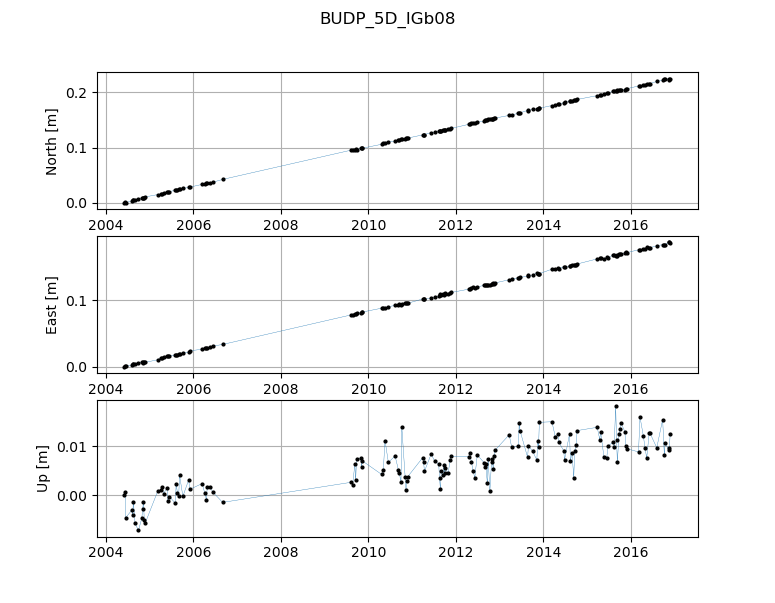
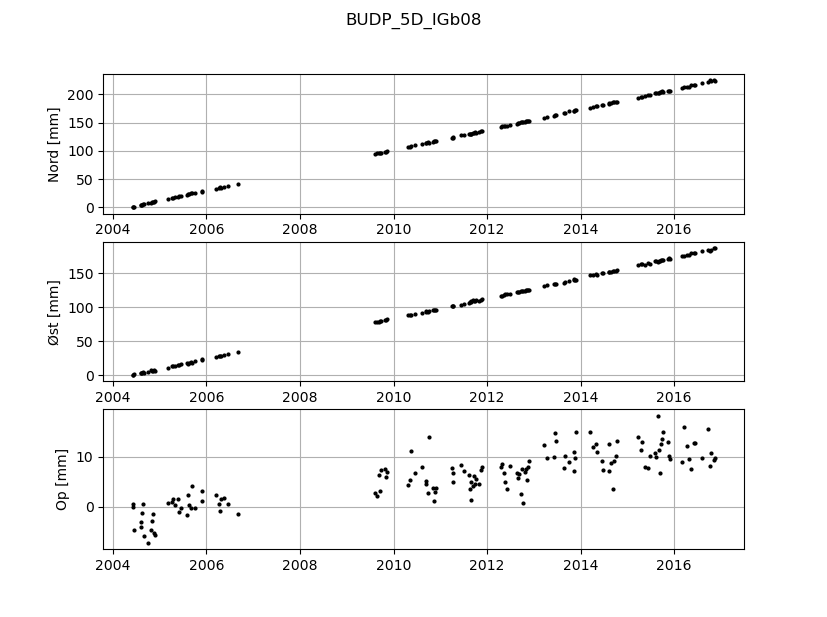
Refaktoriser og udvid plot_gnss
Giver nu mulighed for at plotte en simpel regressionslinje
med eller uden konfidensinterval.
Opdateret dokumentation med tilhørende figureksempler.

diff --git a/fire/cli/ts/gnss.py b/fire/cli/ts/gnss.py
@@ -3,7 +3,6 @@ from datetime import datetime
 
 import click
 import pandas as pd
-import matplotlib.pyplot as plt
 from rich.table import Table
 from rich.console import Console
 from rich import box
@@ -12,6 +11,14 @@ from sqlalchemy.exc import NoResultFound
 
 import fire.cli
 from fire.api.model import Tidsserie, HøjdeTidsserie, GNSSTidsserie, Punkt
+from fire.cli.ts._plot_gnss import (
+    plot_gnss_ts,
+    plot_gnss_analyse,
+    plot_data,
+    plot_fit,
+    plot_konfidensbånd,
+    GNSS_TS_PLOTTING_LABELS,
+)
 
 from . import ts
 
@@ -121,7 +128,7 @@ def gnss(objekt: str, parametre: str, fil: click.Path, **kwargs) -> None:
     Hvis "OBJEKT" er et punkt udskrives en oversigt over de tilgængelige
     tidsserier til dette punkt. Hvis 'OBJEKT' er en tidsserie udskrives
     tidsserien på skærmen. Hvilke parametre der udskrives kan specificeres
-    i en kommasepararet liste med ``--parameter``. Følgende parametre kan vælges::
+    i en kommasepareret liste med ``--parametre``. Følgende parametre kan vælges::
 
     \b
         t               Tidspunkt for koordinatobservation
@@ -170,7 +177,7 @@ def gnss(objekt: str, parametre: str, fil: click.Path, **kwargs) -> None:
 
     Vis tidsserie med brugerdefinerede parametre::
 
-        fire ts gnss RDIO_5D_IGb08 --paramatre decimalår,n,e,u,sx,sy,sz
+        fire ts gnss RDIO_5D_IGb08 --parametre decimalår,n,e,u,sx,sy,sz
 
     Gem tidsserie med samtlige tilgængelige parametre::
 
@@ -200,7 +207,7 @@ def gnss(objekt: str, parametre: str, fil: click.Path, **kwargs) -> None:
     kolonner = []
     for p in parametre:
         if p not in GNSS_TS_PARAMETRE.keys():
-            raise SystemExit(f"Ukendt tidsserieparameter '{p}''")
+            raise SystemExit(f"Ukendt tidsserieparameter '{p}'")
 
         overskrifter.append(p)
         kolonner.append(tidsserie.__getattribute__(GNSS_TS_PARAMETRE[p]))
@@ -234,68 +241,120 @@ def gnss(objekt: str, parametre: str, fil: click.Path, **kwargs) -> None:
     df.to_excel(fil, index=False)
 
 
-def plot_gnss_ts(ts: GNSSTidsserie):
-    """ """
-
-    def _plot_ts(label: str, x: list, y: list):
-        plt.plot(x, y, "-", linewidth=0.25)
-        plt.plot(
-            x,
-            y,
-            ".",
-            markersize=4,
-            linewidth=0.25,
-            color="black",
-        )
-
-        plt.grid()
-        plt.ylabel(label)
-
-    plt.figure()
-    plt.suptitle(ts.navn)
-    plt.xlabel("Date")
-
-    plt.subplot(311)
-    _plot_ts("North [m]", ts.t, ts.n)
-
-    plt.subplot(312)
-    _plot_ts("East [m]", ts.t, ts.e)
-
-    plt.subplot(313)
-    _plot_ts("Up [m]", ts.t, ts.u)
-
-    plt.show()
-
-
 @ts.command()
 @click.argument("tidsserie", required=True, type=str)
+@click.option(
+    "--plottype",
+    "-t",
+    required=False,
+    type=click.Choice(["rå", "fit", "konf"]),
+    default="rå",
+    help="Hvilken type plot vil man se?",
+)
+@click.option(
+    "--parametre",
+    "-p",
+    required=False,
+    type=str,
+    default=None,
+    help="Hvilken parameter skal plottes? Vælges flere plottes max de tre første.",
+)
 @fire.cli.default_options()
-def plot_gnss(tidsserie: str, **kwargs) -> None:
+def plot_gnss(tidsserie: str, plottype: str, parametre: str, **kwargs) -> None:
     """
-    Plot en GNSS tidsserie
+    Plot en GNSS tidsserie.
 
-    Et simpelt plot der viser udviklingen i nord, øst og op retningerne over tid.
+    Et simpelt plot der som standard viser udviklingen i nord, øst og op retningerne over tid.
+    Vælges plottypen ``konf`` vises som standard kun Op-retningen.
+    Plottes kun én enkelt tidsserieparameter vises for plottyperne ``fit`` og ``konf`` også
+    værdien af fittets hældning.
 
     "TIDSSERIE" er et GNSS-tidsserie ID fra FIRE. Eksisterende GNSS-tidsserier kan
     fremsøges med kommandoen ``fire ts gnss <punktnummer>``.
+    Hvilke parametre der plottes kan specificeres i en kommasepareret liste med ``--parametre``.
+    Højst 3 parametre plottes. Følgende parametre kan vælges::
+
+    \b
+        t               Tidspunkt for koordinatobservation
+        x               Koordinatens x-komponent (geocentrisk)
+        y               Koordinatens y-komponent (geocentrisk)
+        z               Koordinatens z-komponent (geocentrisk)
+        X               Koordinatens x-komponent (geocentrisk, normaliseret)
+        Y               Koordinatens y-komponent (geocentrisk, normaliseret)
+        Z               Koordinatens z-komponent (geocentrisk, normaliseret)
+        n               Normaliseret nordlig komponent (topocentrisk)
+        e               Normaliseret østlig komponent (topocentrisk)
+        u               Normaliseret vertikal komponent (topocentrisk)
+        decimalår       Tidspunkt for koordinatobservation i decimalår
+
+    Typen af plot som vises kan vælges med ``--plottype``. Følgende plottyper kan vælges::
+
+    \b
+        rå              Plot rå data
+        fit             Plot lineær regression oven på de rå data
+        konf            Plot lineær regression med konfidensbånd
 
     \f
     **EKSEMPLER**
 
     Plot af 5D-tidsserie for BUDP::
 
-        fire ts plot-gnss BUDP_5D_IGB05
+        fire ts plot-gnss BUDP_5D_IGb08
 
     Resulterer i visning af nedenstående plot.
 
     .. image:: figures/fire_ts_plot_gnss_BUDP_5D_IGb08.png
         :width: 800
-        :alt: Eksempel på plot af 5D-tidsserie for BUDP. Genereret med FIRE v. 1.6.1.
+        :alt: Eksempel på plot af 5D-tidsserie for BUDP.
+
+    Plot af 5D-tidsserie for SMID::
+
+        fire ts plot-gnss SMID_5D_IGb08 -p X,Y -t fit
+
+    Resulterer i visning af nedenstående plot.
+
+    .. image:: figures/fire_ts_plot_gnss_SMID_5D_IGb08_XY_fit.png
+        :width: 800
+        :alt: Eksempel på plot af 5D-tidsserie for SMID.
+
+    Plot af 5D-tidsserie for TEJH::
+
+        fire ts plot-gnss TEJH_5D_IGb08 -t konf
+
+    Resulterer i visning af nedenstående plot.
+
+    .. image:: figures/fire_ts_plot_gnss_TEJH_5D_IGb08_konf.png
+        :width: 800
+        :alt: Eksempel på plot af 5D-tidsserie for TEJH.
 
     """
+    # Dynamisk default værdi baseret på plottype.
+    # Se https://stackoverflow.com/questions/51846634/click-dynamic-defaults-for-prompts-based-on-other-options for andre muligheder
+    if parametre is None:
+        if plottype == "konf":
+            parametre = "u"
+        else:
+            parametre = "n,e,u"
+
+    plot_funktioner = {
+        "rå": plot_data,
+        "fit": plot_fit,
+        "konf": plot_konfidensbånd,
+    }
+
     try:
         tidsserie = _find_tidsserie(GNSSTidsserie, tidsserie)
     except NoResultFound:
         raise SystemExit("Tidsserie ikke fundet")
 
-    plot_gnss_ts(tidsserie)
+    parametre = parametre.split(",")
+
+    for parm in parametre:
+        if parm not in GNSS_TS_ANALYSERBARE_PARAMETRE.keys():
+            raise SystemExit(f"Ukendt tidsserieparameter '{parm}'")
+
+    parametre = [GNSS_TS_ANALYSERBARE_PARAMETRE[parm] for parm in parametre]
+
+    plot_gnss_ts(tidsserie, plot_funktioner[plottype], parametre)
+
+

diff --git a/fire/cli/ts/_plot_gnss.py b/fire/cli/ts/_plot_gnss.py
@@ -1,0 +1,144 @@
+from typing import Callable
+
+import matplotlib.pyplot as plt
+from matplotlib.ticker import FormatStrFormatter
+import numpy as np
+
+from fire.api.model import GNSSTidsserie
+
+from fire.api.model.tidsserier import PolynomieRegression1D
+
+
+GNSS_TS_PLOTTING_LABELS = {
+    "t": "Dato",
+    "x": "x [mm]",
+    "y": "y [mm]",
+    "z": "z [mm]",
+    "X": "X [mm]",
+    "Y": "Y [mm]",
+    "Z": "Z [mm]",
+    "n": "Nord [mm]",
+    "e": "Øst [mm]",
+    "u": "Op [mm]",
+    "decimalår": "År",
+}
+
+
+def plot_gnss_ts(
+    ts: GNSSTidsserie, plot_funktion: Callable, parametre: list = ["n", "e", "u"]
+):
+    """
+    Plotter en GNSSTidsserie.
+
+    Denne funktion håndterer figuropsætningen, og kalder ``plot_funktion``, som
+    forventes at foretage selve plottingen af data.
+    """
+    # Skalér y-værdien for at vise data i mm
+    skalafaktor = 1e3
+
+    n_parm = min(len(parametre), 3)
+
+    ax = plt.figure()
+    plt.suptitle(ts.navn)
+
+    for i, parm in enumerate(parametre, start=1):
+        if i > 3:
+            break
+
+        y = [skalafaktor * yy for yy in getattr(ts, parm)]
+
+        try:
+            label = GNSS_TS_PLOTTING_LABELS[parm]
+        except KeyError:
+            label = parm
+
+        ax = plt.subplot(int(f"{n_parm}{1}{i}"))
+        plot_funktion(ts.decimalår, y)
+        plt.ylabel(label)
+        plt.grid()
+
+    # Vis kun xlabel for nederste subplot
+    plt.xlabel("År")
+
+    # Vis kun legend hvis der er noget at vise (ellers vises en tom boks),
+    # samt hvis der kun er ét plot i figuren (ellers bliver det for gnidret)
+    handles, labels = ax.get_legend_handles_labels()
+    if labels and n_parm == 1:
+        plt.legend(handles, labels)
+
+    plt.show()
+
+
+def plot_data(x: list, y: list):
+    plt.plot(
+        x,
+        y,
+        ".",
+        markersize=4,
+        color="black",
+    )
+
+
+def plot_fit(x: list, y: list):
+    """
+    Plot x og y samt bedste rette linje.
+
+    Enhederne af (x,y) forventes at være (decimalår, mm).
+    """
+
+    lr = PolynomieRegression1D("", x, y)
+    lr.solve()
+
+    x_præd = np.linspace(lr.x[0], lr.x[-1], 1000)
+    y_præd = lr.beregn_prædiktioner(x_præd)
+
+    plt.plot(
+        x_præd,
+        y_præd,
+        "-",
+        color="red",
+        label=f"Hældning af fit: {lr.beta[1]:.3f} [mm/år]",
+    )
+    plot_data(lr.x, lr.y)
+    plt.ylim(lr.y.min(), lr.y.max())
+
+
+def plot_konfidensbånd(x: list, y: list):
+    """
+    Plot x og y samt bedste rette linje med konfidensbånd.
+
+    Enhederne af (x,y) forventes at være (decimalår, mm).
+    """
+    # Binning
+    x_binned, y_binned = GNSSTidsserie.binning(x, y)
+
+    # Foretag lineær regresion
+    lr = PolynomieRegression1D("", x_binned, y_binned)
+    lr.solve()
+
+    # Prædiktioner
+    x_præd = np.linspace(lr.x[0], lr.x[-1], 1000)
+    y_præd = lr.beregn_prædiktioner(x_præd)
+
+    # Konfidensbånd
+    konfidensbånd = lr.beregn_konfidensbånd(x_præd, y_præd)
+
+    plt.plot(
+        x_præd,
+        y_præd,
+        "-",
+        color="red",
+        label=f"Hældning af fit: {lr.beta[1]:.3f} [mm/år]",
+    )
+    plt.plot(
+        x_præd,
+        konfidensbånd[0, :],
+        "g-",
+    )
+    plt.plot(
+        x_præd,
+        konfidensbånd[1, :],
+        "g-",
+        label="95% konf. bånd",
+    )
+    plot_data(lr.x, lr.y)
